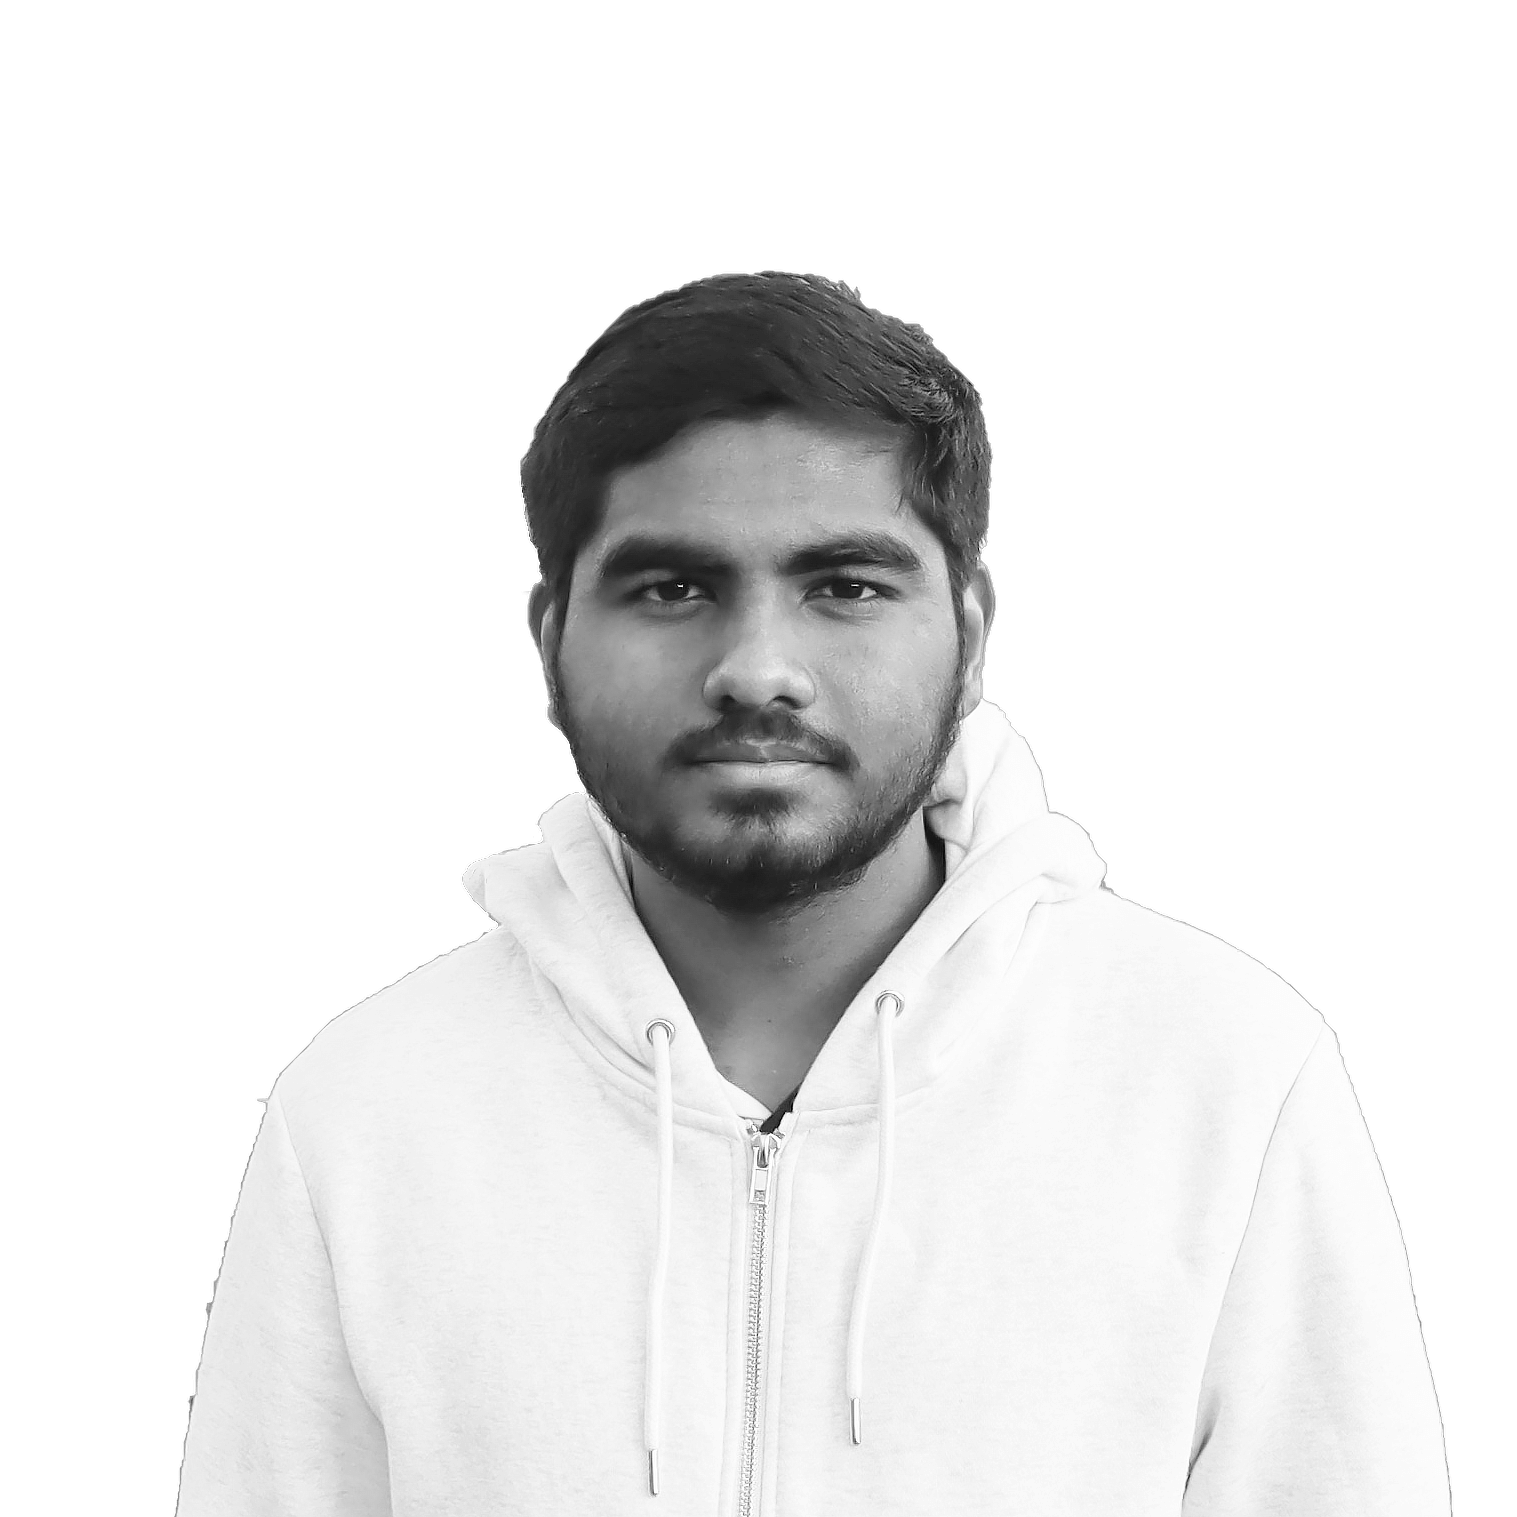
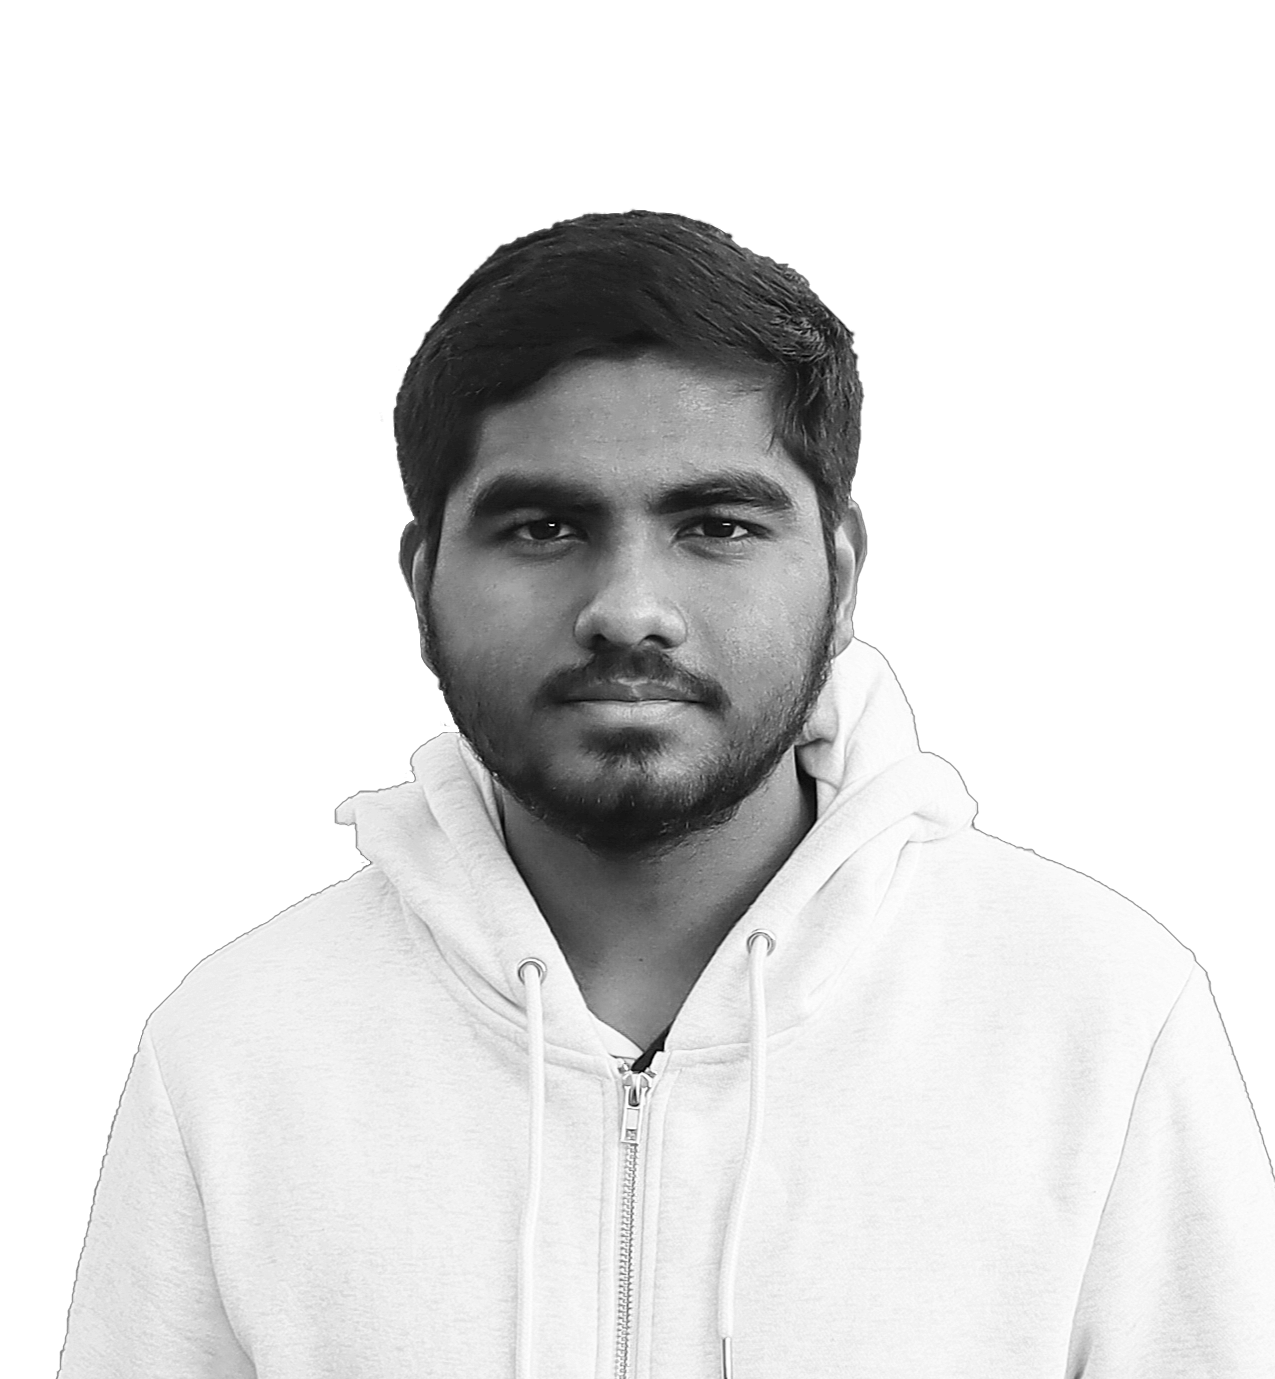
change image

diff --git a/pages/_app.js b/pages/_app.js
@@ -1,4 +1,4 @@
-import { useState } from "react";
+import { useEffect, useState } from "react";
 import { AppProps } from "next/app";
 import Head from "next/head";
 import {
@@ -12,8 +12,23 @@ import "../styles/globals.scss";
 export default function App(props) {
   const { Component, pageProps } = props;
   const [colorScheme, setColorScheme] = useState("light");
+  const [customBackgroundColor, setCustomBackgroundColor] = useState([
+    "#E9ECEF",
+  ]);
   const toggleColorScheme = (value) =>
     setColorScheme(value || (colorScheme === "dark" ? "light" : "dark"));
+  useEffect(() => {
+    console.log(colorScheme);
+    if (colorScheme === "light") {
+      setCustomBackgroundColor(["#E9ECEF"]);
+    } else {
+      setCustomBackgroundColor(["#373a40"]);
+    }
+
+    return () => {
+      // second
+    };
+  }, [colorScheme]);
 
   return (
     <>
@@ -29,16 +44,21 @@ export default function App(props) {
         toggleColorScheme={toggleColorScheme}
       >
         <MantineProvider
-          theme={{ colorScheme }}
+          theme={{
+            colorScheme,
+            colors: {
+              "custom-background": customBackgroundColor,
+            },
+          }}
           withCSSVariables
           withGlobalStyles
           withNormalizeCSS
           // theme={{
           //   /** Put your mantine theme override here */
           //   colorScheme: "light",
-          //   colors: {
-          //     "custom-background": ["#f8f9fa"],
-          //   },
+          // colors: {
+          //   "custom-background": ["#f8f9fa"],
+          // },
           // }}
         >
           <Component {...pageProps} />

diff --git a/styles/Home.module.scss b/styles/Home.module.scss
@@ -1,10 +1,11 @@
 .home {
   width: 80%;
+  max-width: 1200px;
   margin: auto;
 }
 .homeContainer {
   display: flex;
-  //   width: 100%;
+  //   width: 100%; G
   align-items: center;
   justify-content: center;
 }
@@ -13,8 +14,13 @@
 }
 .imageContainer {
   // background-color: red;
+  // height: 400px;
   flex: 1;
   //   border: 1px solid rgb(208, 208, 208);
   border-radius: 20px;
-  // background-color: var(--mantine-color-custom-background-0);
+  background-color: var(--mantine-color-custom-background-0);
+  img {
+    // width: 80% !important;
+    height: 100% !important;
+  }
 }

diff --git a/components/Home.js b/components/Home.js
@@ -25,9 +25,12 @@ function Home() {
           <Image
             className="profile-picture"
             src={profilePic}
+            objectFit="contain"
             alt="Picture of the author"
             // width={500} automatically provided
-            // height={500} automatically provided
+            // height={"100%"}
+            automatically
+            provided
             // blurDataURL="data:..." automatically provided
             // placeholder="blur" // Optional blur-up while loading
             priority

diff --git a/styles/globals.scss b/styles/globals.scss
@@ -2,8 +2,8 @@ html,
 body {
   padding: 0;
   margin: 0;
-  font-family: -apple-system, BlinkMacSystemFont, Segoe UI, Roboto, Oxygen,
-    Ubuntu, Cantarell, Fira Sans, Droid Sans, Helvetica Neue, sans-serif;
+  // font-family: -apple-system, BlinkMacSystemFont, Segoe UI, Roboto, Oxygen,
+  //   Ubuntu, Cantarell, Fira Sans, Droid Sans, Helvetica Neue, sans-serif;
 }
 
 a {
